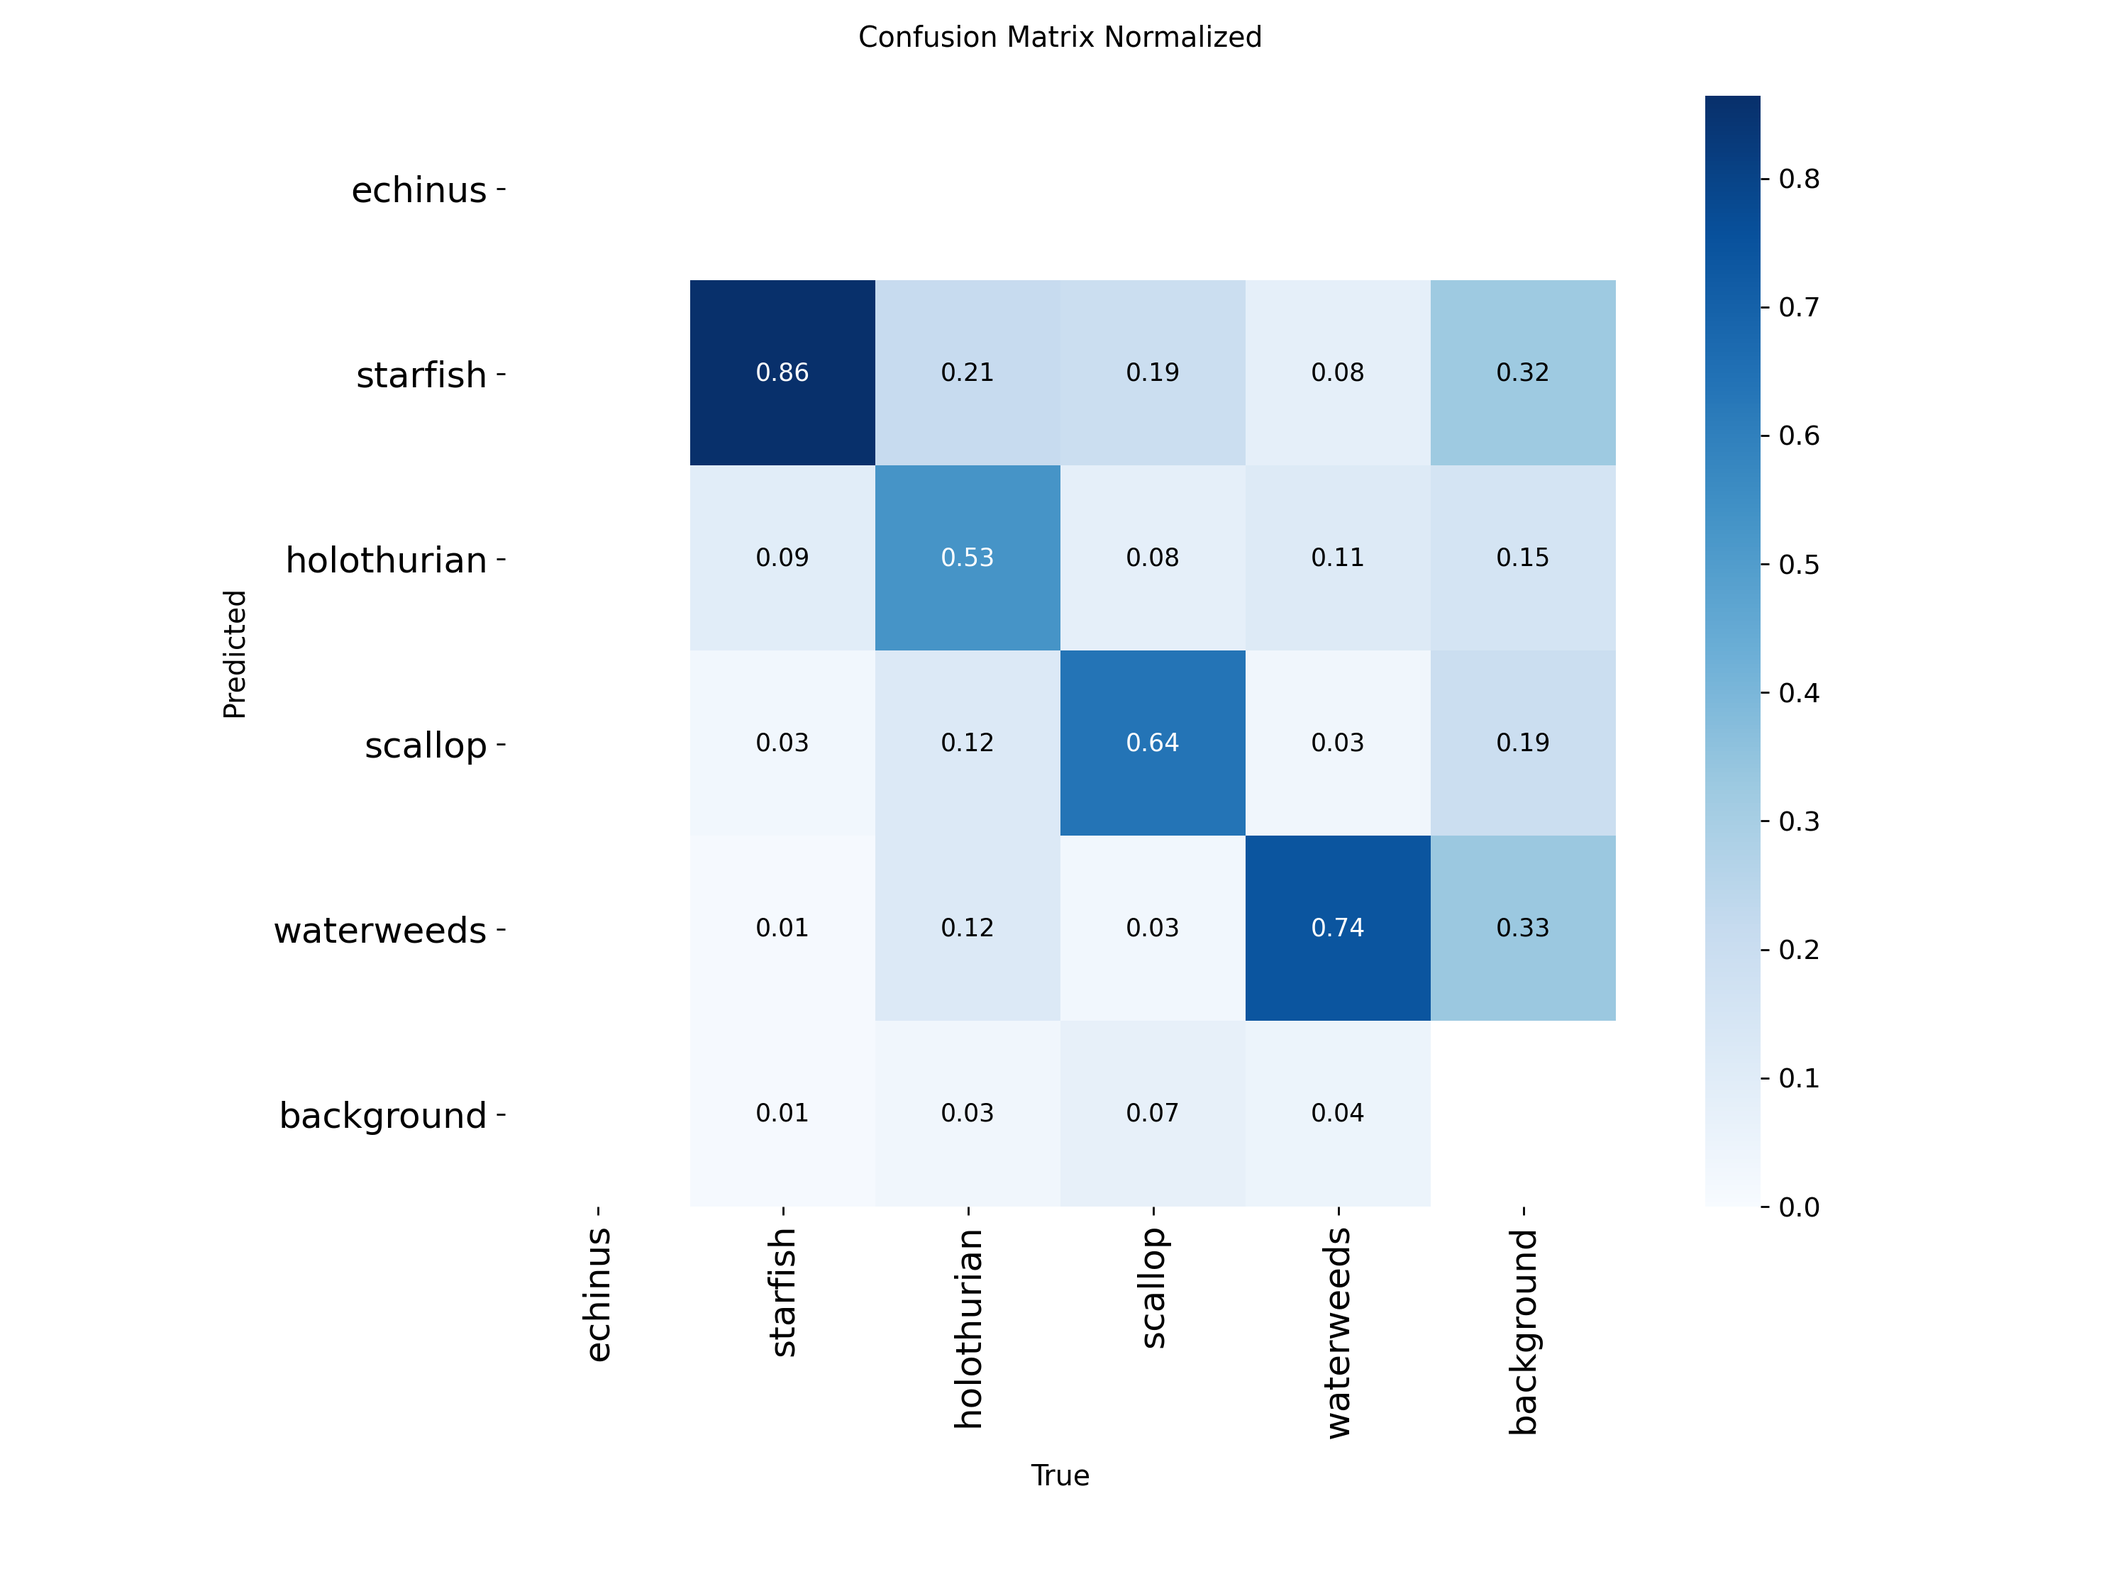
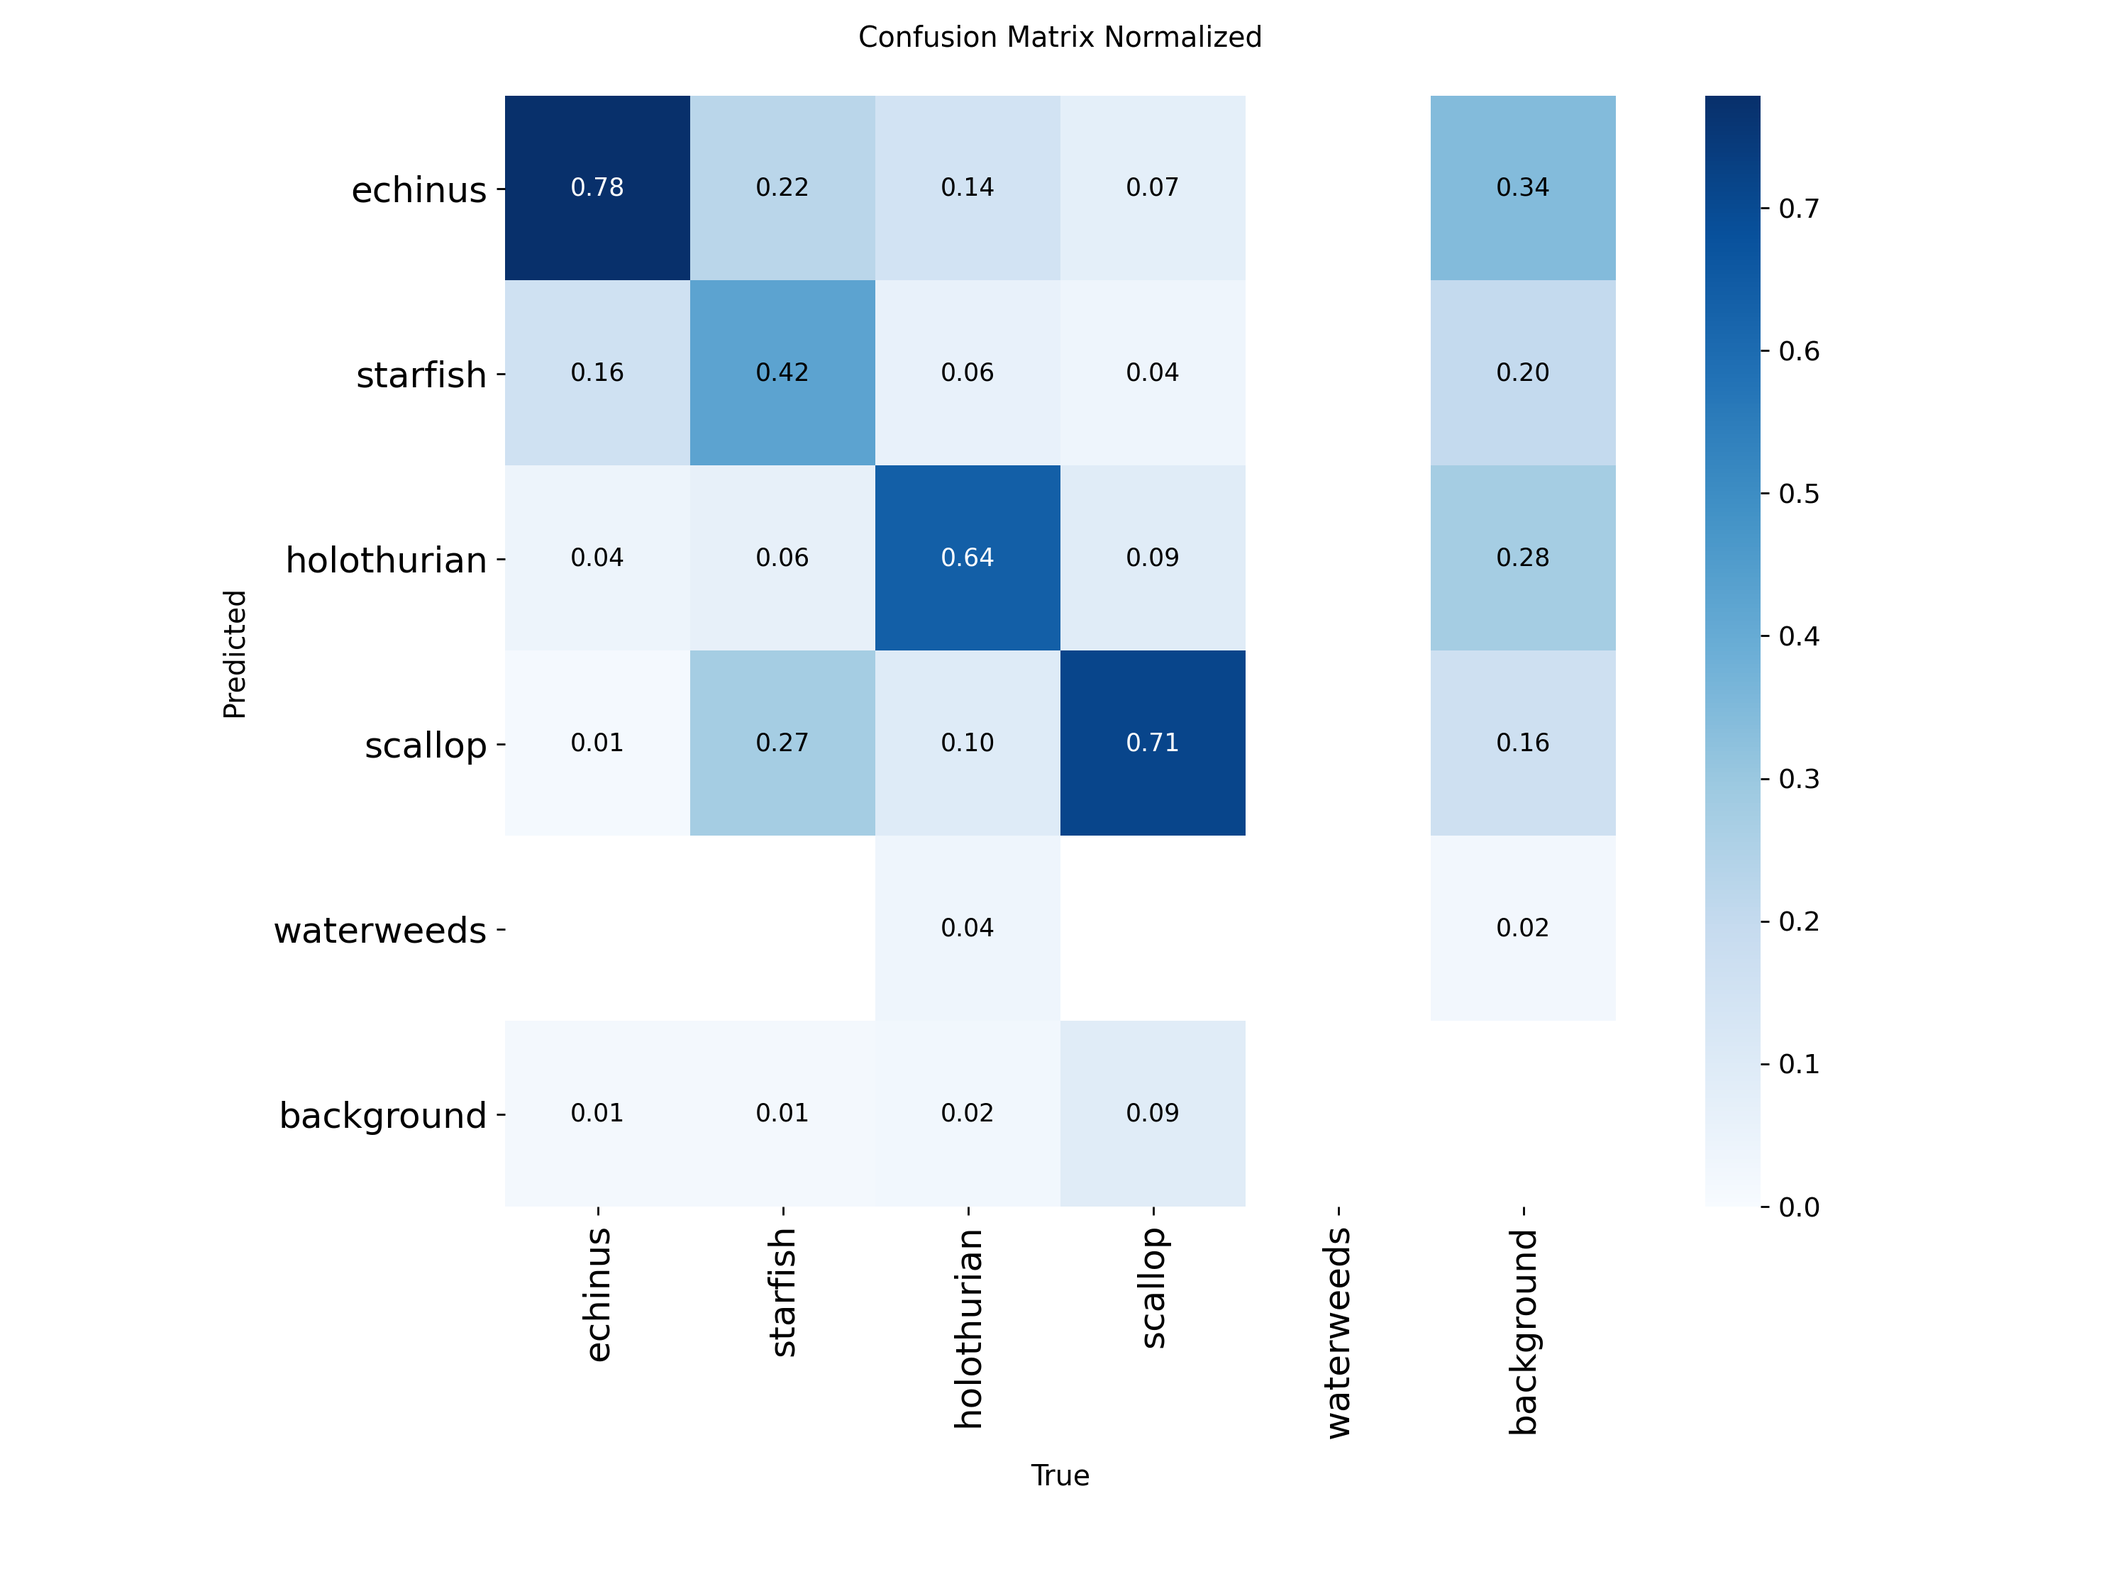
Add Gradio demo, fix URPC 1-based labels, and publish Phase C metrics.
Convert class IDs to 0-index in preprocessing, refresh README/results/assets from the corrected 15pct-v2 run (71.67% test mAP), and ship a local Gradio app for inference.

Changed region(s): [[0.217, 0.0622, 0.775, 0.6533], [0.837, 0.6533, 0.868, 0.6844]]

diff --git a/app.py b/app.py
@@ -1,0 +1,123 @@
+"""
+Gradio demo for underwater object detection (YOLOv9c on URPC 2019).
+
+Run locally:
+  pip install -r requirements-deploy.txt
+  python app.py
+"""
+
+from __future__ import annotations
+
+import os
+from pathlib import Path
+from typing import Optional, Tuple
+
+import gradio as gr
+import numpy as np
+from ultralytics import YOLO
+
+CLASSES = ["echinus", "starfish", "holothurian", "scallop", "waterweeds"]
+DEFAULT_CONF = 0.50
+IMGSZ = 640
+
+ROOT = Path(__file__).resolve().parent
+WEIGHT_CANDIDATES = [
+    Path(os.environ["WEIGHTS_PATH"]) if os.environ.get("WEIGHTS_PATH") else None,
+    ROOT / "weights" / "yolov9c_urpc640_15pct_best.pt",
+    ROOT / "yolov9c_urpc640_15pct_best.pt",
+]
+
+_model: Optional[YOLO] = None
+
+
+def resolve_weights() -> Path:
+    for path in WEIGHT_CANDIDATES:
+        if path is not None and path.is_file():
+            return path
+    raise FileNotFoundError(
+        "Model weights not found. Place "
+        "weights/yolov9c_urpc640_15pct_best.pt next to app.py "
+        "or set WEIGHTS_PATH."
+    )
+
+
+def get_model() -> YOLO:
+    global _model
+    if _model is None:
+        weights = resolve_weights()
+        print(f"Loading model from {weights} ...", flush=True)
+        _model = YOLO(str(weights))
+        print("Model ready.", flush=True)
+    return _model
+
+
+def detect(image, conf_threshold: float) -> Tuple[Optional[np.ndarray], str]:
+    if image is None:
+        return None, "Upload an underwater image to run detection."
+
+    model = get_model()
+    results = model.predict(
+        source=image,
+        conf=float(conf_threshold),
+        imgsz=IMGSZ,
+        verbose=False,
+    )
+    result = results[0]
+    annotated = result.plot()  # BGR
+    annotated_rgb = annotated[:, :, ::-1]
+
+    boxes = result.boxes
+    if boxes is None or len(boxes) == 0:
+        return annotated_rgb, f"No detections above confidence {conf_threshold:.2f}."
+
+    lines = [f"Detections (conf >= {conf_threshold:.2f}):", ""]
+    counts = {}
+    for box in boxes:
+        cls_id = int(box.cls.item())
+        name = CLASSES[cls_id] if 0 <= cls_id < len(CLASSES) else str(cls_id)
+        score = float(box.conf.item())
+        counts[name] = counts.get(name, 0) + 1
+        lines.append(f"- {name}: {score:.2f}")
+
+    lines.append("")
+    lines.append("Counts: " + ", ".join(f"{k} x{v}" for k, v in sorted(counts.items())))
+    return annotated_rgb, "\n".join(lines)
+
+
+DESCRIPTION = (
+    "Upload an underwater image to detect marine objects with fine-tuned **YOLOv9c** "
+    "(URPC 2019, 15% subset, corrected 0-indexed labels). "
+    "Test mAP@0.5: **71.67%**. "
+    "Classes: echinus, starfish, holothurian, scallop, waterweeds. "
+    "Tip: use confidence 0.50–0.60 for cleaner boxes."
+)
+
+examples_dir = ROOT / "examples"
+example_paths = sorted(
+    str(p)
+    for p in examples_dir.glob("*")
+    if p.suffix.lower() in {".jpg", ".jpeg", ".png"}
+)
+
+demo = gr.Interface(
+    fn=detect,
+    inputs=[
+        gr.Image(type="numpy", label="Input image"),
+        gr.Slider(0.15, 0.90, value=DEFAULT_CONF, step=0.05, label="Confidence threshold"),
+    ],
+    outputs=[
+        gr.Image(type="numpy", label="Detections"),
+        gr.Textbox(label="Summary", lines=8),
+    ],
+    title="Underwater Object Detection (YOLOv9c)",
+    description=DESCRIPTION,
+    examples=[[p, DEFAULT_CONF] for p in example_paths] or None,
+    allow_flagging="never",
+)
+
+
+if __name__ == "__main__":
+    print("Starting Gradio (model loads on first request)...", flush=True)
+    # Avoid Gradio 4.x + newer FastAPI schema bug on /info
+    gr.blocks.Blocks.get_api_info = lambda self: {"named_endpoints": {}, "unnamed_endpoints": {}}
+    demo.launch(server_name="127.0.0.1", server_port=7860, share=False, show_api=False)

diff --git a/prepare_urpc640.py b/prepare_urpc640.py
@@ -80,8 +80,12 @@ def transform_labels(
             skipped += 1
             continue
 
+        # URPC source labels are 1-indexed: 1=echinus ... 5=waterweeds.
+        # YOLO / Ultralytics require 0-indexed IDs matching CLASSES above.
         cls_id = int(float(parts[0]))
-        if cls_id < 0 or cls_id >= NUM_CLASSES:
+        if 1 <= cls_id <= NUM_CLASSES:
+            cls_id -= 1
+        else:
             skipped += 1
             continue
 
@@ -284,11 +288,21 @@ def main() -> None:
         )
 
     print("\nClass names:", CLASSES)
-    print(f"data.yaml written to: {args.output / 'data.yaml'}")
+    # Aggregate class counts across splits (sanity: echinus must be non-zero)
+    total_cls: Counter = Counter()
+    for row in stats:
+        total_cls.update(row.get("class_counts", {}))
+    print("Class instance counts (all splits):")
+    for i, name in enumerate(CLASSES):
+        print(f"  {i} {name:<12} {total_cls.get(i, 0)}")
+    if total_cls.get(0, 0) == 0:
+        print("WARNING: echinus count is 0 — check that source labels are 1-indexed URPC.")
+    print(f"\ndata.yaml written to: {args.output / 'data.yaml'}")
     print("\nNext steps:")
-    print("  1. Zip the output folder and upload to Kaggle as a dataset (name: urpc2019-640)")
-    print("  2. Open underwater-yolo-v2.ipynb on Kaggle, attach the dataset, enable GPU")
-    print("  3. Run smoke test (CPU) first, then full training (GPU)")
+    print("  1. Zip the output folder and upload to Kaggle as dataset urpc2019-640-15pct-v2")
+    print("  2. Open underwater-yolo-v2 on Kaggle, attach the NEW dataset, enable GPU")
+    print("  3. Confirm class counts show echinus > 0, then full training")
+    print("  4. Save Version and download yolov9c_urpc640_15pct_best.pt")
 
 
 if __name__ == "__main__":

diff --git a/README.md b/README.md
@@ -3,19 +3,22 @@
 Fine-tuned **YOLOv9c** for marine object detection on the URPC 2019 underwater dataset using Ultralytics.
 
 **Kaggle notebook:** https://www.kaggle.com/code/salonichippa/underwater-yolo-v2  
-**Executed run (with outputs):** see saved versions on the [Kaggle notebook](https://www.kaggle.com/code/salonichippa/underwater-yolo-v2) — metrics and plots are also in [`results/RESULTS.md`](results/RESULTS.md) and [`assets/`](assets/).
+**Dataset (corrected labels):** https://www.kaggle.com/datasets/salonichippa/urpc2019-640-15pct-v2  
+**Live demo:** run locally with Gradio (`app.py`) — see deploy steps below for Hugging Face Spaces.
 
-## Results (test set)
+## Results (test set, corrected class IDs)
 
 | Model | mAP@0.5 | mAP@0.5:0.95 | Precision | Recall |
 |-------|---------|--------------|-----------|----------|
-| **YOLOv9c** | **71.95%** | 38.30% | 77.43% | 62.39% |
-| YOLO11s (baseline) | 66.71% | 35.58% | 73.00% | 60.88% |
+| **YOLOv9c** | **71.67%** | 39.18% | 71.50% | 71.51% |
+| YOLO11s (baseline) | 63.57% | 32.23% | 71.59% | 56.62% |
 
-**Dataset:** 15% stratified subset of URPC 2019 — 508 train / 141 val / 56 test images at 640×640  
+**Per-class (YOLOv9c mAP@0.5):** echinus 80.1% · starfish 88.5% · holothurian 60.9% · scallop 57.2%
+
+**Dataset:** 15% stratified subset of URPC 2019 at 640×640 (Kaggle: `urpc2019-640-15pct-v2`)  
 **Classes:** echinus, starfish, holothurian, scallop, waterweeds
 
-See [results/RESULTS.md](results/RESULTS.md) for per-class breakdown and experiment history.
+See [results/RESULTS.md](results/RESULTS.md) for full tables and label-fix notes.
 
 ### Visualizations
 
@@ -27,45 +30,53 @@ See [results/RESULTS.md](results/RESULTS.md) for per-class breakdown and experim
 |---|
 | ![Confusion matrix](assets/confusion_matrix_normalized.png) |
 
-Detection batch grids were omitted — raw validation overlays are cluttered due to dense underwater scenes and low-confidence waterweeds detections. Metric plots better represent model performance.
-
 ## Project highlights
 
-- Built preprocessing pipeline (`prepare_urpc640.py`) — letterbox resize, label validation, stratified sampling
-- Compared **YOLOv9c vs YOLO11s** on the same subset (v9c +5.2% test mAP)
-- Scaled from 5% to 15% data: **+9.2 pts** test mAP improvement
-- End-to-end workflow: preprocess locally → train on Kaggle GPU → evaluate → visualize predictions
+- Built preprocessing pipeline (`prepare_urpc640.py`) — letterbox resize, **1→0 class-ID fix**, stratified sampling
+- Compared **YOLOv9c vs YOLO11s** on the same corrected subset (v9c **+8.1 pts** test mAP)
+- End-to-end workflow: preprocess locally → train on Kaggle GPU → evaluate → Gradio demo
 
 ## Repository structure
 
 ```
+├── app.py                      # Gradio inference demo
 ├── prepare_urpc640.py          # Create 640×640 YOLO dataset from URPC 2019
 ├── notebooks/
 │   └── underwater-yolo-v2.ipynb  # Training and evaluation notebook
+├── examples/                   # Sample images for the demo
 ├── results/
 │   └── RESULTS.md              # Full metrics tables
-└── assets/                     # Training plots and validation batch visuals
+├── assets/                     # Training plots (Phase C / corrected labels)
+└── weights/                    # Place best.pt here locally (gitignored)
 ```
 
 ## Quick start
+
+### 0. Live demo (Gradio)
+
+```bash
+# weights/yolov9c_urpc640_15pct_best.pt  (from Kaggle Save Version; gitignored)
+pip install -r requirements-deploy.txt
+python app.py
+```
+
+Open `http://127.0.0.1:7860`. Default confidence **0.50**.
 
 ### 1. Preprocess dataset (local)
 
 ```bash
 pip install -r requirements-preprocess.txt
-python prepare_urpc640.py --fraction 0.15 --output ./data/urpc2019-640-15pct --clean
+python prepare_urpc640.py --fraction 0.15 --output ./data/urpc2019-640-15pct-v2 --clean
 ```
 
-Upload the output folder to [Kaggle Datasets](https://www.kaggle.com/datasets) as `urpc2019-640-15pct`.
+Upload to Kaggle as `urpc2019-640-15pct-v2`.
 
 ### 2. Train on Kaggle
 
 1. Open the [Kaggle notebook](https://www.kaggle.com/code/salonichippa/underwater-yolo-v2)
-2. Attach dataset `urpc2019-640-15pct`
+2. Attach dataset **`urpc2019-640-15pct-v2`**
 3. Enable **GPU T4**, Internet **On**
-4. Run all cells
-
-Or upload `notebooks/underwater-yolo-v2.ipynb` to your own Kaggle notebook.
+4. Confirm class counts show **echinus > 0**, then Run all
 
 ## Method
 
@@ -80,7 +91,7 @@ Or upload `notebooks/underwater-yolo-v2.ipynb` to your own Kaggle notebook.
 ## Limitations
 
 - Trained on 15% of URPC 2019 (~705 images), not the full benchmark
-- Scallop detection remains challenging due to class imbalance
+- Scallop / holothurian remain harder; waterweeds rare in this split
 - Not SOTA vs papers using full URPC + custom architectures (~81%+ mAP)
 
 ## References

diff --git a/results/RESULTS.md b/results/RESULTS.md
@@ -1,42 +1,60 @@
 # Results Summary
 
-## Final test metrics (15% URPC 2019 subset, 640×640)
+## Final test metrics (corrected labels, 15% URPC 2019, 640×640)
+
+Dataset rebuilt with **0-indexed class IDs** (`prepare_urpc640.py` converts URPC’s 1-based labels).  
+Kaggle dataset: `urpc2019-640-15pct-v2`
 
 | Model | mAP@0.5 | mAP@0.5:0.95 | Precision | Recall |
 |-------|---------|--------------|-----------|----------|
-| **YOLOv9c** (primary) | **71.95%** | 38.30% | 77.43% | 62.39% |
-| YOLO11s (baseline) | 66.71% | 35.58% | 73.00% | 60.88% |
+| **YOLOv9c** (primary) | **71.67%** | 39.18% | 71.50% | 71.51% |
+| YOLO11s (baseline) | 63.57% | 32.23% | 71.59% | 56.62% |
 
-**Dataset:** 508 train / 141 val / 56 test images (15% stratified subset of [URPC 2019](https://github.com/xiaoHaiSea/URPC2019))
+**Dataset:** 15% stratified subset — test split 56 images / 499 instances  
+**Classes:** echinus, starfish, holothurian, scallop, waterweeds
 
 ## Per-class test mAP@0.5 (YOLOv9c)
 
+| Class | Images | Instances | Precision | Recall | mAP@0.5 | mAP@0.5:0.95 |
+|-------|--------|-----------|-----------|--------|---------|--------------|
+| Echinus | 48 | 280 | 68.9% | 82.9% | **80.1%** | 39.6% |
+| Starfish | 32 | 80 | 86.1% | 85.5% | **88.5%** | 51.2% |
+| Holothurian | 32 | 83 | 66.8% | 60.5% | 60.9% | 32.7% |
+| Scallop | 11 | 56 | 64.2% | 57.1% | 57.2% | 33.2% |
+
+Waterweeds: very few / none in this test split after correct remapping (rare in source as class 5).
+
+## Per-class test mAP@0.5 (YOLO11s baseline)
+
 | Class | Instances | mAP@0.5 |
 |-------|-----------|---------|
-| Starfish | 262 | 90.2% |
-| Holothurian | 85 | 90.0% |
-| Scallop | 37 | 55.4% |
-| Waterweeds | 59 | 52.3% |
+| Echinus | 280 | 81.3% |
+| Starfish | 80 | 77.8% |
+| Holothurian | 83 | 51.2% |
+| Scallop | 56 | 44.0% |
 
 ## Training progression
 
-| Experiment | Data | Model | Val mAP@0.5 | Test mAP@0.5 |
-|------------|------|-------|-------------|--------------|
-| Phase A | ~5% (234 img) | YOLOv9c | 69.3% | 62.8% |
-| Phase A | ~5% | YOLO11s | 61.2% | — |
-| **Phase B** | **15% (705 img)** | **YOLOv9c** | **76.3%** | **72.0%** |
-| Phase B | 15% | YOLO11s | 69.1% | 66.7% |
+| Experiment | Labels | Data | Model | Test mAP@0.5 |
+|------------|--------|------|-------|--------------|
+| Phase A | shifted (bug) | ~5% | YOLOv9c | 62.8%* |
+| Phase B | shifted (bug) | 15% | YOLOv9c | 72.0%* |
+| **Phase C (final)** | **corrected 0-index** | **15% v2** | **YOLOv9c** | **71.67%** |
+| Phase C | corrected 0-index | 15% v2 | YOLO11s | 63.57% |
 
-## Training config (best run)
+\*Phase A/B headline mAP was similar, but **per-class names were wrong** (echinus labeled as starfish, etc.) because source IDs were 1-based and never decremented.
+
+## Training config (Phase C)
 
 - Model: `yolov9c.pt` via Ultralytics 8.4
-- Epochs: 55 (early stop from 80 max), batch=4, imgsz=640
+- Epochs: early-stopped (~37 from 80 max), batch=4, imgsz=640
 - Optimizer: AdamW, cos_lr=True
 - Augmentation: HSV (underwater), mixup=0.05, copy_paste=0.1
 - Hardware: Kaggle Tesla T4 GPU
 
 ## Known limitations
 
-- 15% subset of URPC 2019 (not full 4,700-image benchmark)
-- Scallop class has fewest instances → lowest mAP
-- Echinus rare/absent in test split
+- 15% subset of URPC 2019 (~705 images), not the full benchmark
+- Scallop / holothurian harder than echinus / starfish
+- Waterweeds under-represented after correct label mapping
+- Not SOTA vs full-URPC papers (~81%+ mAP)
